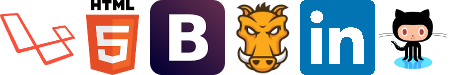
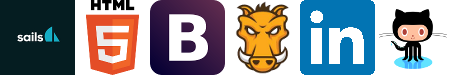
Contact form using csrf tokens and style updates

Changed region(s): [[0.0, 0.0, 0.1867, 1.0]]

diff --git a/assets/js/app.utility.js b/assets/js/app.utility.js
@@ -4,8 +4,8 @@ var AppUtility = function () {
     this.updateStatus('pending');
 
     if(this.validateRequest(o)) {
-      var postString = 'text=' + encodeURIComponent(o.text) + '&email=' 
-                     + encodeURIComponent(o.email);
+      var postString = 'text=' + encodeURIComponent(o.text) + '&email=' + 
+                        encodeURIComponent(o.email) + '&_csrf=' + encodeURIComponent(o._csrf);
     } else {
       this.updateStatus('fail');
       return false;
@@ -17,16 +17,18 @@ var AppUtility = function () {
       return false;
     }
     
-    httpRequest.onreadystatechange = alertContents;
+    httpRequest.onreadystatechange = alertContents.bind(this);
     httpRequest.open('POST', '/contact');
     httpRequest.setRequestHeader('Content-type', 'application/x-www-form-urlencoded');
     httpRequest.send(postString);
     
-    function alertContents(){
-      if(httpRequest.readyState === 4 && httpRequest.status === 200){
-        this.updateStatus('success');      
-      } else {
-        this.updateStatus('fail');
+    function alertContents() {
+      if(httpRequest.readyState === 4) {
+        if(httpRequest.status === 200) {
+          this.updateStatus('success');      
+        } else {
+          this.updateStatus('fail');
+        }
       }
     }
   };

diff --git a/api/controllers/ContactController.js b/api/controllers/ContactController.js
@@ -1,0 +1,36 @@
+var ContactController = function (nodemailer) {
+  'use strict'; 
+
+  nodemailer = nodemailer || require('nodemailer');
+
+  this.send = function (req, res) {
+    var transporter = nodemailer.createTransport({
+      service: 'Gmail',
+      auth: {
+        user: sails.config.emailUser,
+        pass: sails.config.emailPassword
+      }
+    });
+
+    var viewOptions = { 
+      message: req.param('text'), 
+      email: req.param('email') 
+    };
+
+    res.render('contact-email', viewOptions, function (error, html) {
+      var mailOptions = {
+        from: 'Greg Considine <greg@greg-considine.com>',
+        to: 'Greg Considine <greg@greg-considine.com>',
+        subject: 'Contact Form Submission',
+        html: html
+      };
+
+      transporter.sendMail(mailOptions, function (error, info) {});
+    });
+
+    return res.json(200, {});
+  };
+
+};
+
+module.exports = new ContactController();

diff --git a/config/routes.js b/config/routes.js
@@ -44,7 +44,7 @@ module.exports.routes = {
   *                                                                          *
   ***************************************************************************/
 
-  'post /contact': 'ContactController.sendForm',
+  'post /contact': 'ContactController.send',
   'get /animations/everywhere-usa': 'AnimationController.everywhereUsa',
   'get /animations/forest-moon': 'AnimationController.forestMoon',
   'get /animations/squares-and-triangles': 'AnimationController.squaresAndTriangles'

diff --git a/config/session.js b/config/session.js
@@ -41,7 +41,7 @@ module.exports.session = {
   * session store that can be shared across multiple Sails.js servers        *
   ***************************************************************************/
 
-  // adapter: 'redis',
+  adapter: 'redis',
 
   /***************************************************************************
   *                                                                          *

diff --git a/config/csrf.js b/config/csrf.js
@@ -48,7 +48,7 @@
 *                                                                           *
 ****************************************************************************/
 
-// module.exports.csrf = false;
+module.exports.csrf = true;
 
 /****************************************************************************
 *                                                                           *

diff --git a/assets/js/app.start.js b/assets/js/app.start.js
@@ -39,7 +39,8 @@
       contactButton.onclick = function () { 
         utility.request({
           text: document.getElementById('userMessage').value,
-          email: document.getElementById('userEmail').value
+          email: document.getElementById('userEmail').value,
+          _csrf: document.getElementById('_csrf').value
         });
       };
     }

diff --git a/assets/less/app.less b/assets/less/app.less
@@ -255,7 +255,7 @@ a:hover {
   repeat: none;
   margin: 5px;
 }
-.gc-sprite-laravel {
+.gc-sprite-sails {
   background-position: 0px 0px;
 }
 .gc-sprite-html {
